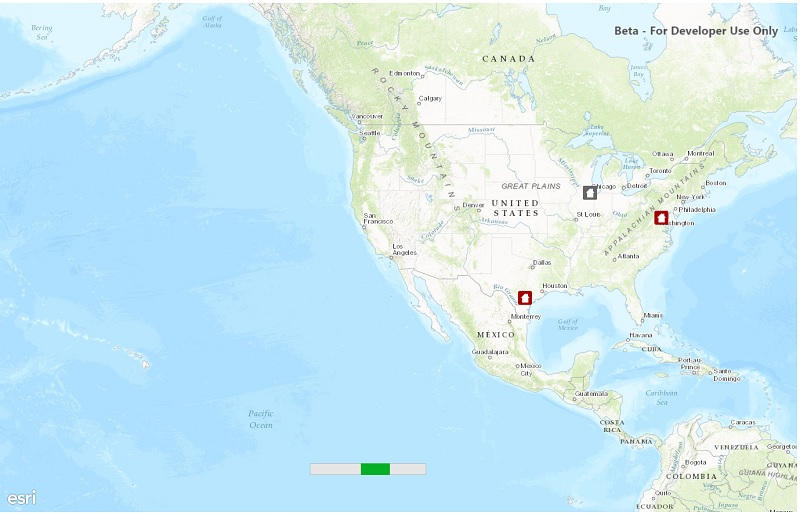
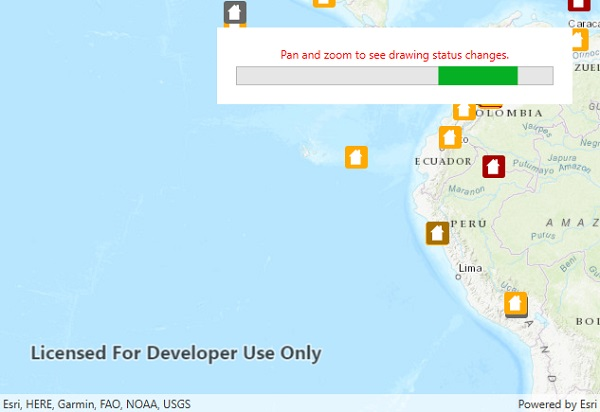
Display drawing status
Improvements:

* Move controls to a form to be consistent with other samples.
* Update XAML to follow latest standards.
* Add a help label that explains what to do.

diff --git a/src/WPF/ArcGISRuntime.WPF.Viewer/Samples/MapView/DisplayDrawingStatus/DisplayDrawingStatus.xaml b/src/WPF/ArcGISRuntime.WPF.Viewer/Samples/MapView/DisplayDrawingStatus/DisplayDrawingStatus.xaml
@@ -1,14 +1,25 @@
 <UserControl x:Class="ArcGISRuntime.WPF.Samples.DisplayDrawingStatus.DisplayDrawingStatus"
              xmlns="http://schemas.microsoft.com/winfx/2006/xaml/presentation"
              xmlns:x="http://schemas.microsoft.com/winfx/2006/xaml"
-             xmlns:mc="http://schemas.openxmlformats.org/markup-compatibility/2006" 
-             xmlns:d="http://schemas.microsoft.com/expression/blend/2008" 
+             xmlns:mc="http://schemas.openxmlformats.org/markup-compatibility/2006"
+             xmlns:d="http://schemas.microsoft.com/expression/blend/2008"
              xmlns:esri="http://schemas.esri.com/arcgis/runtime/2013"
-             mc:Ignorable="d" 
+             mc:Ignorable="d"
              d:DesignHeight="300" d:DesignWidth="300">
     <Grid>
-        <esri:MapView x:Name="MyMapView"/>
-        <ProgressBar x:Name="activityIndicator" IsIndeterminate="True" IsEnabled="True" 
-                     Height="20" Width="200" VerticalAlignment="Bottom" Margin="0,0,0,30"></ProgressBar>
+        <esri:MapView x:Name="MyMapView" />
+        <Border BorderBrush="Black" Background="White"
+                HorizontalAlignment="Right" VerticalAlignment="Top"
+                Margin="30" Padding="20" Width="375">
+            <StackPanel>
+                <TextBlock Text="Pan and zoom to see drawing status changes."
+                           Foreground="Red"
+                           TextAlignment="Center" />
+                <ProgressBar x:Name="activityIndicator"
+                             IsIndeterminate="True" IsEnabled="True"
+                             Height="20" Margin="0,5,0,0"
+                             HorizontalAlignment="Stretch" />
+            </StackPanel>
+        </Border>
     </Grid>
 </UserControl>
